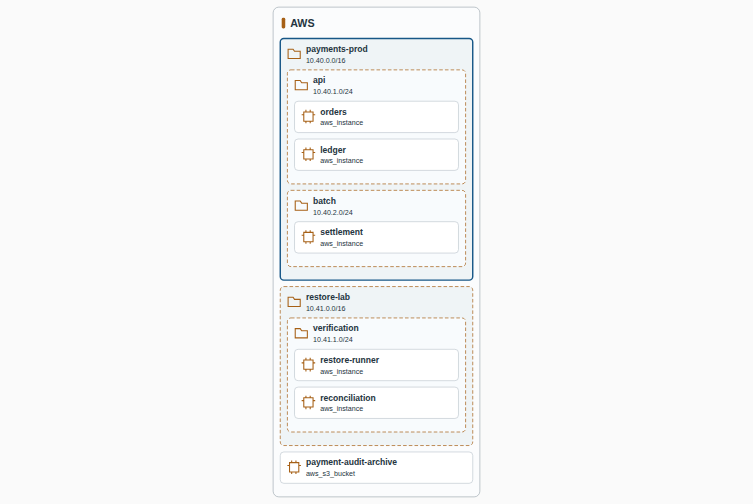
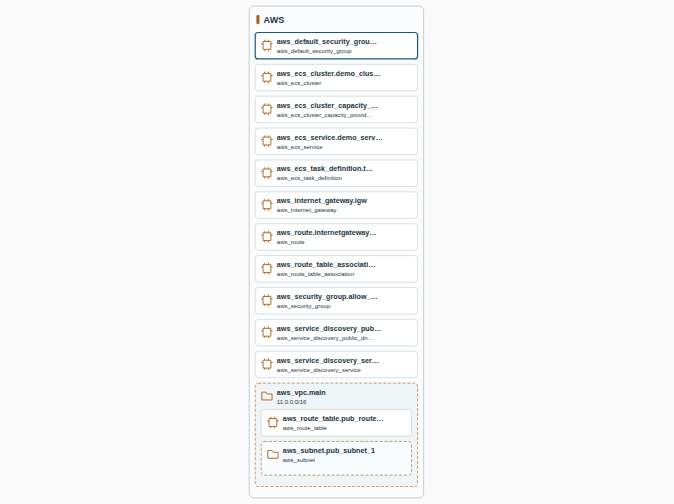
Remove architecture templates with incomplete operational paths

Changed region(s): [[0.3427, 0.0, 0.6543, 0.9524], [0.3739, 0.9821, 0.6231, 1.0], [0.592, 0.9226, 0.6231, 0.9524]]

diff --git a/src/ArchitectureDocument.tsx b/src/ArchitectureDocument.tsx
@@ -178,11 +178,20 @@ export function ArchitectureStart({
   const [catalogMode, setCatalogMode] = useState("전체");
   const [scenario, setScenario] = useState("");
   const query = catalogSearch.trim().toLowerCase();
+  const catalogModes = (cloud: string) => ["전체", ...["사례 설계", "컴포넌트 편집", "Terraform 원본"].filter(mode =>
+    cloudTemplates.some(t => t.provider === cloud && templateMode(t) === mode))];
+  function templateMode(t: typeof cloudTemplates[number]) {
+    return "caseStudy" in t ? "사례 설계" : "repo" in t ? "Terraform 원본" : "컴포넌트 편집";
+  }
+  const matchesScenario = (t: typeof cloudTemplates[number], name: string) =>
+    scenarios[name].test([t.name, t.study, t.id, ...t.kinds].join(" "));
+  const availableScenarios = (cloud: string) => Object.keys(scenarios).filter(name =>
+    cloudTemplates.some(t => t.provider === cloud && matchesScenario(t, name)));
   const matches = cloudTemplates.filter(
     (t) =>
       t.provider === provider &&
-      (!scenario || scenarios[scenario].test([t.name, t.study, t.id, ...t.kinds].join(" "))) &&
-      (catalogMode === "전체" || catalogMode === ("caseStudy" in t ? "사례 설계" : "repo" in t ? "Terraform 원본" : "컴포넌트 편집")) &&
+      (!scenario || matchesScenario(t, scenario)) &&
+      (catalogMode === "전체" || catalogMode === templateMode(t)) &&
       (!query ||
         [t.name, t.study, t.id, ...t.kinds].some((v) =>
           (v + " " + (COMPONENTS[v]?.label || "")).toLowerCase().includes(query),
@@ -295,6 +304,8 @@ export function ArchitectureStart({
               value={provider}
               onChange={(e) => {
                 setProvider(e.target.value);
+                if (scenario && !availableScenarios(e.target.value).includes(scenario)) setScenario("");
+                if (!catalogModes(e.target.value).includes(catalogMode)) setCatalogMode("전체");
                 setTemplateId(
                   cloudTemplates.find((t) => t.provider === e.target.value)!.id,
                 );
@@ -309,7 +320,7 @@ export function ArchitectureStart({
             <span>업무 시나리오</span>
             <select value={scenario} onChange={e => setScenario(e.target.value)}>
               <option value="">전체 시나리오</option>
-              {Object.keys(scenarios).map(name => <option key={name}>{name}</option>)}
+              {availableScenarios(provider).map(name => <option key={name}>{name}</option>)}
             </select>
           </label>
           <label className="catalog-field">
@@ -321,7 +332,7 @@ export function ArchitectureStart({
             />
           </label>
           <div className="catalog-modes" role="group" aria-label="템플릿 편집 방식">
-            {["전체", "사례 설계", "컴포넌트 편집", "Terraform 원본"].map((mode) => (
+            {catalogModes(provider).map((mode) => (
               <button key={mode} type="button" aria-pressed={catalogMode === mode}
                 onClick={() => setCatalogMode(mode)}>{mode}</button>
             ))}
@@ -334,7 +345,7 @@ export function ArchitectureStart({
                   onClick={() => setTemplateId(t.id)}>
                   <TemplateThumbnail id={t.id} />
                   <strong>{t.name}</strong>
-                  <small>{t.provider} · {"caseStudy" in t ? "사례 설계" : "repo" in t ? "Terraform 원본" : "컴포넌트 편집"}</small>
+                  <small>{t.provider} · {templateMode(t)}</small>
                 </button>
               ))}
             </div>

diff --git a/tests/ui/builder.spec.ts b/tests/ui/builder.spec.ts
@@ -136,16 +136,17 @@ test("nested network gallery previews match the AWS subnet canvas", async ({ pag
   await page.goto("/");
   await page.getByRole("button", { name: "새로 만들기", exact: true }).click();
   await page.getByRole("button", {name:"IaCD 아키텍처", exact:true}).click();
-  const compute = page.getByRole("button",{name:"결제 서비스 · 격리 복구 리허설",exact:true});
-  await expect(compute.getByAltText("영역형 구성도")).toBeVisible();
-  await page.getByLabel("템플릿 검색").fill("Fargate 서비스 검색");
-  await expect(page.getByAltText("영역형 구성도")).toBeVisible();
-  await page.getByLabel("템플릿 검색").fill("결제 서비스 · 격리 복구 리허설");
-  await compute.click();
+  const search = page.getByLabel("템플릿 검색");
+  await search.fill("결제 서비스 · 격리 복구 리허설");
+  await expect(page.getByRole("button", {name:"템플릿으로 시작"})).toBeDisabled();
+  await search.fill("Fargate 서비스 검색");
+  const card = page.getByRole("button",{name:"Fargate 서비스 검색과 Cloud Map 공개 DNS",exact:true});
+  await expect(card.getByAltText("영역형 구성도")).toBeVisible();
+  await card.click();
   await page.getByRole("button",{name:"템플릿으로 시작"}).click();
-  await expect(page.getByLabel("아키텍처 제목")).toHaveValue("AWS · 결제 서비스 · 격리 복구 리허설");
+  await expect(page.getByLabel("아키텍처 제목")).toHaveValue("AWS · Fargate 서비스 검색과 Cloud Map 공개 DNS");
   const diagram = page.locator(".network-sheet");
-  await expect(diagram.locator("[data-scope]")).toHaveCount(11);
+  await expect(diagram.locator("[data-scope]")).toHaveCount(14);
   await diagram.screenshot({path:"test-results/aws-subnet-template.png"});
 });
 

diff --git a/tests/ui/architecture.spec.ts b/tests/ui/architecture.spec.ts
@@ -316,7 +316,7 @@ test("review a live Terraform edit beside the canvas and follow incoming referen
   await expect(page.locator(".catalog-large-preview")).toContainText("ap-northeast-2");
   await page.getByRole("slider",{name:/배율/}).press("End");
   expect(await page.locator(".catalog-preview-scroll").evaluate(el=>el.scrollWidth > el.clientWidth)).toBe(true);
-  await page.getByLabel("업무 시나리오").selectOption("복구 · 백업");
+  await page.getByLabel("업무 시나리오").selectOption("공유 이그레스");
   const filtered = await gallery.getByRole("button").count();
   expect(filtered).toBeGreaterThan(0);
   expect(filtered).toBeLessThan(total);

diff --git a/README.md b/README.md
@@ -14,7 +14,7 @@ A local-first desktop workspace for linked notes, spreadsheets and infrastructur
 
 - **Notes** — Open **새로 만들기** for sheets, canvases and tools, or click the workspace name to switch workspaces. Use the workspace’s + to create a folder and a folder’s + to start a note. New notes open in the block editor. Edit Markdown or blocks, follow backlinks, browse the graph, restore revisions, attach images and PDFs, import HTML or Markdown, and export Markdown, HTML or PDF. Choose light, gray, dark or system appearance.
 - **Sheets** — Import Excel, CSV and TSV. Import a folder of workbooks to preserve the directory tree, with a page per workbook and a tab per sheet. Copy a selection as tab-separated text. [Sheet guide](docs/sheets.md)
-- **Infrastructure** — Inventory Terraform/OpenTofu, Kubernetes and Compose resources, inspect relationships and record operational notes. Design nested cloud networks and move between a component and its Terraform declaration. Compare module input and output declarations across two versions using local terraform-docs JSON files. Review local Terraform/OpenTofu plan JSON on the canvas and reuse selected boundaries as workspace templates. Filter template previews by provider and scenario. Edit a resource alongside its live Terraform, follow references in either direction and compare the current file with its opening version. Browse 57 designs covering AWS (17), Azure (19), GCP (17) and multi-cloud (4), including multi-account audit, regional application failover and dual-cloud branch routing. Each case includes a design question. Export supported components to Terraform, CloudFormation, Helm or Kubernetes manifests. [IaCD guide](docs/iacd.md) · [Infrastructure guide](docs/infrastructure.md)
+- **Infrastructure** — Inventory Terraform/OpenTofu, Kubernetes and Compose resources, inspect relationships and record operational notes. Design nested cloud networks and move between a component and its Terraform declaration. Compare module input and output declarations across two versions using local terraform-docs JSON files. Review local Terraform/OpenTofu plan JSON on the canvas and reuse selected boundaries as workspace templates. Filter template previews by provider and scenario. Edit a resource alongside its live Terraform, follow references in either direction and compare the current file with its opening version. Browse 54 designs covering AWS (16), Azure (19), GCP (16) and multi-cloud (3), including multi-account audit, regional application failover and dual-cloud branch routing. Each case includes a design question. Export supported components to Terraform, CloudFormation, Helm or Kubernetes manifests. [IaCD guide](docs/iacd.md) · [Infrastructure guide](docs/infrastructure.md)
 - **Automation canvases** — Import GitHub Actions, Jenkins Declarative, Ansible and CloudFormation files, edit individual blocks, and embed a linked canvas preview in a note. [Canvas guide](docs/automation-canvas-review.md)
 - **xcode** — Chat with a self-hosted model, attach project files and follow streamed replies. Enter the full Chat Completions URL, an optional API token and the model ID to start chatting. Import or edit `settings.json` to reuse a connection and retry settings. Resume interrupted stages in a local workspace. [Session guide](docs/xcode.md)
 - **Analyzer** — Project scans run offline using the bundled netspector, kubewiser v0.2.0-alpha.10 and Helm executables. Inspect project network paths, Kubernetes manifests and Helm charts. Compare Kubernetes versions and save findings as a linked report for Builder. [Analyzer guide](docs/analyzer.md)
@@ -32,15 +32,15 @@ A local-first desktop workspace for linked notes, spreadsheets and infrastructur
 <details>
 <summary>Architecture and automation screenshots</summary>
 
-Under **IaCD → 사례 설계**, open the two-zone Seoul egress network, private EKS operations platform or three-cloud retail analytics design. The Azure hub-and-spoke and GCP regional Shared VPC cases include resource-level diagrams and operational review notes. Select a resource in the overview to inspect its Terraform source. Dashed arrows indicate integration work to configure.
+Under **IaCD → 사례 설계**, open the two-zone Seoul egress network, private EKS operations platform or dual-cloud branch routing design. The Azure hub-and-spoke and GCP regional Shared VPC cases include resource-level diagrams and operational review notes. Select a resource in the overview to inspect its Terraform source. Dashed arrows indicate integration work to configure.
 
 ![Seoul VPC design with two availability zones and zonal NAT gateways](docs/images/seoul-case.png)
 
 ![Dual on-premises routers with independent AWS and GCP paths](docs/images/branch-routing.png)
 
-In the AWS catalog, open **결제 서비스 · 격리 복구 리허설** to see an EC2 instance inside its subnet and VPC. Cards marked **영역형** show nested resource boundaries.
+In the AWS catalog, open **Fargate 서비스 검색과 Cloud Map 공개 DNS** to inspect the VPC, subnet and ECS service discovery resources. Cards marked **영역형** show nested resource boundaries.
 
-![EC2 inside a subnet and VPC](docs/images/aws-subnet-template.png)
+![Fargate service discovery network](docs/images/aws-subnet-template.png)
 
 ![Nested cloud and Kubernetes resources](docs/images/iacd.png)
 ![Azure hub with two isolated spokes](docs/images/azure-spokes.png)

diff --git a/docs/brainboard-builder.md b/docs/brainboard-builder.md
@@ -29,7 +29,7 @@
 4. [x] HCL 가져오기 때 선언한 파일을 기록하고 파서로 확인된 단일 행 헤더는 줄 번호를 제공한다. 모듈의 같은 이름이 서로 다른 파일에 있는 예제로 파일·선언 위치를 확인한다.
 5. [x] 기존 참조 목록에서 속성을 확인하고 경계 도면에 독립적인 설명선을 추가·삭제한다. AWS·Azure·GCP 각각에서 시각적 변경과 Terraform 변경을 비교한다.
 6. [x] AWS Route Table, Azure Network Security Group, GCP Cloud Router를 팔레트에 추가했다. 세 유형의 속성·부모 경계·잘못된 배치·추출 후 역변환을 검증한다.
-7. [x] AWS·Azure·GCP·멀티클라우드 설계 57종을 공급자·시나리오·리소스 유형으로 찾는다. 사례에는 조직 감사, 리전 장애 전환, 지점망 이중화 등 검토할 설계 결정이 포함된다. 외부 원본 기반 템플릿은 출처와 라이선스 고지를 보존한다. [원본 목록과 커밋](../catalog/sources.json)
+7. [x] AWS·Azure·GCP·멀티클라우드 설계 54종을 공급자·시나리오·리소스 유형으로 찾는다. 사례에는 조직 감사, 리전 장애 전환, 지점망 이중화 등 검토할 설계 결정이 포함된다. 외부 원본 기반 템플릿은 출처와 라이선스 고지를 보존한다. [원본 목록과 커밋](../catalog/sources.json)
 8. WAF 운영 검토와 추출 보고서에 사용한 AVM 모듈·고정 버전을 기록한다. WAF 검토의 **AVM · Terraform 모듈 버전 비교**에서 같은 모듈의 현재 버전과 후보 버전에 대해 각각 생성한 terraform-docs JSON을 연다. 입력·출력 이름의 추가·삭제, 입력 유형과 필수 여부 변경을 비교한다. 기본값·검증식과 실제 배포 영향은 별도 검토가 필요하다.
 9. 이름 있는 하네스 사본에 원본 페이지 ID와 저장 시점 버전을 기록한다. 워크스페이스 템플릿으로 게시하고 다른 Builder에서 해당 버전을 적용할 수 있다. 서로 다른 공간 사이에서는 하네스 파일을 사용한다. 기존 하네스 실행은 팀 원본 수정의 영향을 받지 않아야 한다.
 10. 기기별 모델 프로필, OS 암호화 키 저장, MCP 토큰 인증과 명시적인 조회 도구 호출을 구현했다. 게시자와 실행자의 권한 차이는 두 계정에서 검증한다.

diff --git a/docs/iacd.md b/docs/iacd.md
@@ -38,14 +38,13 @@ Terraform은 AWS `~> 6.0`, AzureRM `~> 4.0`, Google `~> 7.0`, AVM 사용 시 AzA
 
 ## 아키텍처 사례 카탈로그
 
-AWS 17종, Azure 19종, GCP 17종, 멀티클라우드 4종을 제공한다. 검색은 이름, Terraform 리소스 유형, 검토 주제를 대상으로 한다. 사례를 선택하면 검토할 설계 질문이 나오며 캔버스의 WAF 운영 검토에서도 다시 읽을 수 있다.
+AWS 16종, Azure 19종, GCP 16종, 멀티클라우드 3종을 제공한다. 검색은 이름, Terraform 리소스 유형, 검토 주제를 대상으로 한다. 사례를 선택하면 검토할 설계 질문이 나오며 캔버스의 WAF 운영 검토에서도 다시 읽을 수 있다.
 
 | 공급자 | 사례 | 검토할 설계 결정 |
 | --- | --- | --- |
 | AWS | 멀티계정 랜딩존 감사 | 조직 추적에서 별도 보관 계정으로 로그를 전달하고 정책 장애 후 수신을 확인 |
 | Azure | 한국·일본 무상태 웹 서비스 | 주 리전의 HTTPS 상태 점검 실패와 DNS 캐시 만료 후 복구 시간 측정 |
 | 멀티클라우드 | 지점망 이중 라우터 | 한 장비가 중단될 때 AWS 및 GCP로 가는 독립 BGP 경로 확인 |
-| AWS | 결제 서비스 격리 복구 리허설 | 운영 API·정산 서브넷과 복구 검증 VPC 사이의 데이터 반입 및 폐기 절차 |
 | Azure | 사업부별 AVM 사설 데이터 구역 | 수집·재무·감사별 VNet, Private Endpoint, 저장소 복제 정책 |
 | GCP | 멀티테넌트 GKE, Interconnect 위의 HA VPN | 테넌트별 권한 분리, 회선과 터널의 장애 경계 |
 | 멀티클라우드 | AWS–GCP, Azure–GCP HA VPN | 양쪽 게이트웨이, 터널, BGP 피어가 연결되는 방식 |
